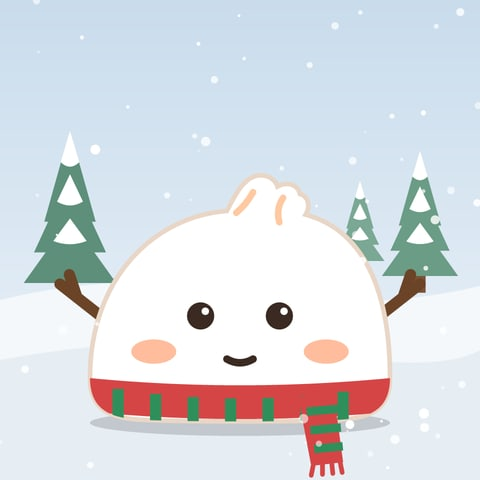
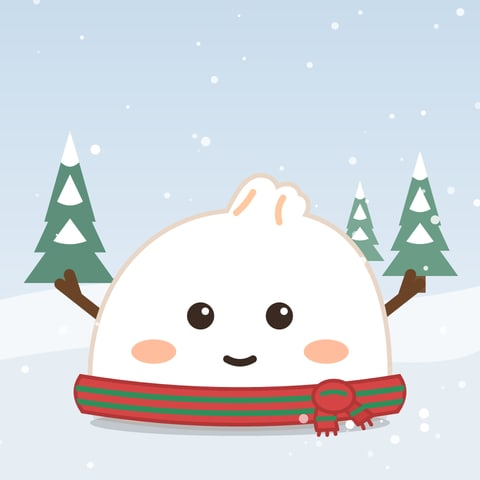
옷장 방울 니트 대신 목도리, 목도리는 따로 그려 몸에 감기
- 옷장: 빨간·주황 방울 니트 빼고 목도리(63장). 얼굴 아래에 깔아 입이 위로 보이게
- 목도리는 몸에 칠한 띠가 아니라 테두리·두께가 있는 따로 된 목도리, 양끝이 몸 밖으로
  나오고 초록 줄은 띠 곡선을 따라간다. 매듭과 꼬리 두 개 (앱 그림 높이 안에 들어오게)
- 초상화: 진주 귀걸이를 오른쪽으로, 더 크게, 고리 없이
- 코코몬: 병아리 날개 빼기

Changed region(s): [[0.1562, 0.7812, 0.8438, 1.0]]

diff --git a/design/tools/make_samples.js b/design/tools/make_samples.js
@@ -59,7 +59,7 @@ function coco(x, y, w, { tone = 'white', mood = 'idle', flip = false, rot = 0, o
   </g>`;
 }
 
-/** 방울 니트 (over 에 넣는다). 앱 옷장의 빨간·주황 방울 니트(Outfits.tsx 의 Beanie)와 같은 모양 */
+/** 방울 니트 (over 에 넣는다). 머리를 덮어 꼭지를 가린다 */
 function beanie(color, band, pom) {
   const ribs = [86, 114, 142, 171, 200, 229, 258, 286, 314].map((x) => `<path d="M${x},${(160 - 100 * Math.sqrt(1 - ((x - 200) / 150) ** 2)).toFixed(1)} L${x},138" stroke="#000" stroke-width="5" stroke-linecap="round" opacity="0.1"/>`).join('');
   const bandRibs = [64, 92, 120, 148, 176, 204, 232, 260, 288, 316, 340].map((x) => `<path d="M${x},${(136 - Math.sin(((x - 44) / 312) * Math.PI) * 10).toFixed(1)} l0,26" stroke="#000" stroke-width="4" stroke-linecap="round" opacity="0.12"/>`).join('');
@@ -67,6 +67,21 @@ function beanie(color, band, pom) {
     <path d="M44,140 C120,118 280,118 356,140 L358,178 C280,156 120,156 42,178 Z" fill="${band}"/>${bandRibs}
     <circle cx="200" cy="46" r="30" fill="${pom}"/><circle cx="182" cy="36" r="13" fill="${pom}"/><circle cx="220" cy="34" r="13" fill="${pom}"/>`;
 }
+
+/** 빨간 목도리 (over 에 넣는다). 몸에 칠한 띠가 아니라 두께·테두리가 있는 따로 된 목도리를 몸에 감아 붙인다.
+ *  양끝은 몸 밖으로 살짝 나오고, 오른쪽 앞 매듭에서 꼬리 두 개가 늘어진다. 앱 옷장의 목도리(Outfits.tsx 의 Scarf)와 같은 모양 */
+const SCARF_BAND = 'M30,254 Q200,282 370,254 Q382,272 368,292 Q200,320 32,292 Q18,272 30,254 Z';
+const SCARF = `<clipPath id="scarf-band"><path d="${SCARF_BAND}"/></clipPath>
+  <path d="M40,286 Q200,316 360,286 L356,300 Q200,326 44,300 Z" fill="rgba(120,40,0,0.12)"/>
+  <path d="${SCARF_BAND}" fill="#d64545" stroke="#b33636" stroke-width="4"/>
+  <g clip-path="url(#scarf-band)" stroke="#2f8f5b" stroke-width="6" fill="none"><path d="M20,266 Q200,294 380,266"/><path d="M20,280 Q200,308 380,280"/></g>
+  <path d="M284,282 Q278,298 282,312 L304,311 Q300,297 302,284 Z" fill="#d64545" stroke="#b33636" stroke-width="4" stroke-linejoin="round"/>
+  <path d="M304,280 Q316,294 326,306 L342,296 Q328,286 316,276 Z" fill="#c93d3d" stroke="#b33636" stroke-width="4" stroke-linejoin="round"/>
+  <path d="M281,300 L303,299" stroke="#2f8f5b" stroke-width="5"/>
+  <path d="M318,296 L334,286" stroke="#2f8f5b" stroke-width="5"/>
+  <path d="M285,312 l-1,5 M293,312 l0,5 M301,311 l1,5 M330,305 l2,5 M337,301 l3,5" stroke="#b33636" stroke-width="4" stroke-linecap="round"/>
+  <ellipse cx="300" cy="276" rx="22" ry="17" fill="#d64545" stroke="#b33636" stroke-width="4"/>
+  <path d="M286,274 Q300,268 314,274" stroke="#2f8f5b" stroke-width="5" fill="none"/>`;
 
 /** 짧고 동그란 흰 손·발 (코코와 같은 흰색 + 테두리) */
 const nub = (cx, cy, rx, ry, rot = 0) =>
@@ -156,12 +171,7 @@ const SCENES = {
     ${pine(70, 300, 170, '#5d8f7a', true)}${pine(420, 290, 140, '#6a9c86', true)}${pine(360, 270, 90, '#7aa894', true)}
     <path d="M0,300 Q120,270 240,292 T480,286 L480,480 L0,480 Z" fill="#f4f8fb"/>
     <path d="M0,360 Q160,330 300,352 T480,350 L480,480 L0,480 Z" fill="#e6eef4"/>
-    ${coco(240, 420, 300, { mood: 'calm', over: inside(`
-      <path d="M0,252 Q200,276 400,252 L400,288 Q200,312 0,288 Z" fill="#d64545"/>
-      ${[70, 110, 150, 190, 230, 270, 310].map((x) => `<path d="M${x},${254 + 24 * (1 - ((x - 200) / 200) ** 2)} l0,34" stroke="#2f8f5b" stroke-width="12"/>`).join('')}`) + `
-      <path d="M262,276 L300,272 L310,346 L276,350 Z" fill="#d64545"/>
-      ${[292, 312, 332].map((y) => `<path d="M${268 + (y - 276) * 0.2},${y} L${304 + (y - 276) * 0.1},${y - 3}" stroke="#2f8f5b" stroke-width="9"/>`).join('')}
-      <path d="M278,350 l-2,10 M288,349 l0,10 M298,348 l1,10 M307,347 l2,10" stroke="#d64545" stroke-width="5" stroke-linecap="round"/>`,
+    ${coco(240, 420, 300, { mood: 'calm', over: SCARF,
       under: `<path d="M64,200 L8,156 M26,170 L18,146 M336,200 L392,156 M374,170 L382,146" stroke="#6b4428" stroke-width="12" stroke-linecap="round"/>` })}
     ${snow(70, 480, 480, 7)}
   `, lin('sky', [[0, '#c9dcec'], [1, '#eef4fa']]))],
@@ -184,7 +194,6 @@ const SCENES = {
       <ellipse cx="0" cy="-26" rx="42" ry="38" fill="#ffe066"/>
       <circle cx="-14" cy="-36" r="5" fill="${EYE}"/><circle cx="14" cy="-36" r="5" fill="${EYE}"/>
       <path d="M-8,-24 L8,-24 L0,-14 Z" fill="#f59f3a"/>
-      <path d="M-40,-30 Q-58,-26 -50,-10" stroke="#f7d14a" stroke-width="12" stroke-linecap="round" fill="none"/>
       <path d="M-6,-64 Q0,-78 8,-64" stroke="#ffe066" stroke-width="6" fill="none" stroke-linecap="round"/>
       <path d="M-14,10 L-14,2 M14,10 L14,2" stroke="#f59f3a" stroke-width="5" stroke-linecap="round"/>
     </g>
@@ -284,8 +293,7 @@ const SCENES = {
     ${coco(240, 400, 310, { mood: 'calm', over: inside(`
       <path d="M0,276 Q200,256 400,276 L400,320 L0,320 Z" fill="#6b2d3f"/>
       <path d="M170,268 Q200,292 230,268 L222,320 L178,320 Z" fill="#f4ecd8"/>`) + `
-      <path d="M58,184 Q46,190 46,204" stroke="#d8b55a" stroke-width="5" stroke-linecap="round" fill="none"/>
-      <circle cx="44" cy="224" r="19" fill="url(#pearl)"/><circle cx="38" cy="216" r="5.5" fill="#fff"/>` })}
+      <circle cx="356" cy="226" r="27" fill="url(#pearl)"/><circle cx="348" cy="215" r="7.5" fill="#fff"/>` })}
     <g opacity="0.75">${(() => { const R = rnd(17); let s = ''; for (let i = 0; i < 260; i++) s += `<rect x="${(40 + R() * 392).toFixed(0)}" y="${(40 + R() * 392).toFixed(0)}" width="8" height="3" fill="${R() > 0.5 ? '#000' : '#fff'}" opacity="0.06" transform="rotate(${(R() * 180).toFixed(0)} 240 240)"/>`; return s; })()}</g>
     <path d="M60,420 Q120,380 160,420 L130,440 Z" fill="#e85d3a" opacity="0.85"/><path d="M360,400 Q400,360 430,420 L420,440 L360,440 Z" fill="#f2a33a" opacity="0.8"/>
   `, rad('bg', [[0, '#5b6b46'], [1, '#1d2617']], 0.45, 0.35, 0.8) + rad('pearl', [[0, '#ffffff'], [0.6, '#eef0f2'], [1, '#b9bec6']], 0.4, 0.35, 0.6))],

diff --git a/app/src/components/Outfits.tsx b/app/src/components/Outfits.tsx
@@ -1,7 +1,7 @@
 // 코코 옷(머리 장식). 코코 그림과 같은 viewBox(400×320) 좌표로 그려서 CocoArt 위에 겹친다
-import { Circle, Ellipse, G, Path, Rect } from 'react-native-svg';
+import { Circle, ClipPath, Defs, Ellipse, G, Path, Rect } from 'react-native-svg';
 
-export type OutfitId = 'ribbon' | 'heart' | 'cat' | 'dog' | 'straw' | 'beret' | 'crown' | 'party' | 'headphones' | 'earflap' | 'trapper' | 'glasses' | 'snowcap' | 'pompom';
+export type OutfitId = 'ribbon' | 'heart' | 'cat' | 'dog' | 'straw' | 'beret' | 'crown' | 'party' | 'headphones' | 'earflap' | 'trapper' | 'glasses' | 'scarf';
 
 // 모자 그림의 기준점(from)을 코코 머리 위 자리(to)에 맞추고, k배 키우고 r도 기울인다. top = 얹었을 때 가장 위쪽 y
 const FIT: Record<OutfitId, { from: [number, number]; to: [number, number]; k: number; r?: number; top: number }> = {
@@ -17,10 +17,10 @@ const FIT: Record<OutfitId, { from: [number, number]; to: [number, number]; k: n
   earflap: { from: [0, 0], to: [0, 0], k: 1, top: 14 },
   trapper: { from: [0, 0], to: [0, 0], k: 1, top: 62 },
   glasses: { from: [0, 0], to: [0, 0], k: 1, top: 160 },
-  snowcap: { from: [0, 0], to: [0, 0], k: 1, top: 20 },
-  pompom: { from: [0, 0], to: [0, 0], k: 1, top: 20 },
+  scarf: { from: [0, 0], to: [0, 0], k: 1, top: 258 },
 };
 
+const SCARF_BAND = 'M30,254 Q200,282 370,254 Q382,272 368,292 Q200,320 32,292 Q18,272 30,254 Z';
 const HEART = '#fff'; // 하트 꼬랑지 (코코와 같은 흰색)
 const LINE = '#3a2a22'; // 고양이 귀·수염 (코코 눈과 같은 색)
 const EAR = '#2e2a2f'; // 강아지 귀 (흰 코코와 대비되는 검정)
@@ -39,9 +39,11 @@ export const COVERS_KNOB: Record<OutfitId, boolean> = {
   earflap: true,
   trapper: true,
   glasses: false, // 눈에 걸치는 거라 머리 꼭지는 그대로 보인다
-  snowcap: true,
-  pompom: true,
+  scarf: false, // 몸 아래쪽에 두르는 거라 꼭지는 그대로
 };
+
+/** 얼굴(눈·입)보다 먼저 그리는 옷: 몸에 두르는 거라 입이 그 위로 보여야 한다 */
+export const UNDER_FACE: Partial<Record<OutfitId, boolean>> = { scarf: true };
 
 /** 옷의 가장 위쪽 y (메인에서 대사를 코코에 붙일 때 모자에 겹치지 않도록) */
 export const OUTFIT_TOP = Object.fromEntries((Object.keys(FIT) as OutfitId[]).map((id) => [id, FIT[id].top])) as Record<OutfitId, number>;
@@ -200,12 +202,27 @@ function Hat({ id }: { id: OutfitId }) {
           <Circle cx={212} cy={54} r={14} fill="#e9dfd0" />
         </G>
       );
-    case 'snowcap':
-      // 빨간 방울 니트 (초록 접단 + 흰 방울)
-      return <Beanie color="#d64545" band="#2f8f5b" pom="#ffffff" />;
-    case 'pompom':
-      // 주황 방울 니트 (진한 주황 접단 + 흰 방울)
-      return <Beanie color="#ff8a3d" band="#e8692a" pom="#ffffff" />;
+    case 'scarf':
+      // 빨간 목도리: 몸에 칠한 띠가 아니라 두께·테두리가 있는 따로 된 목도리를 몸에 감아 붙인다.
+      // 양끝은 몸 밖으로 살짝 나오고, 오른쪽 앞 매듭에서 꼬리 두 개 (design/tools/make_samples.js 의 SCARF 와 같은 모양)
+      return (
+        <G>
+          <Defs>
+            <ClipPath id="scarf-band"><Path d={SCARF_BAND} /></ClipPath>
+          </Defs>
+          <Path d="M40,286 Q200,316 360,286 L356,300 Q200,326 44,300 Z" fill="rgba(120,40,0,0.12)" />
+          <Path d={SCARF_BAND} fill="#d64545" stroke="#b33636" strokeWidth={4} />
+          <G clipPath="url(#scarf-band)">
+            <Path d="M20,266 Q200,294 380,266 M20,280 Q200,308 380,280" stroke="#2f8f5b" strokeWidth={6} fill="none" />
+          </G>
+          <Path d="M284,282 Q278,298 282,312 L304,311 Q300,297 302,284 Z" fill="#d64545" stroke="#b33636" strokeWidth={4} strokeLinejoin="round" />
+          <Path d="M304,280 Q316,294 326,306 L342,296 Q328,286 316,276 Z" fill="#c93d3d" stroke="#b33636" strokeWidth={4} strokeLinejoin="round" />
+          <Path d="M281,300 L303,299 M318,296 L334,286" stroke="#2f8f5b" strokeWidth={5} />
+          <Path d="M285,312 l-1,5 M293,312 l0,5 M301,311 l1,5 M330,305 l2,5 M337,301 l3,5" stroke="#b33636" strokeWidth={4} strokeLinecap="round" />
+          <Ellipse cx={300} cy={276} rx={22} ry={17} fill="#d64545" stroke="#b33636" strokeWidth={4} />
+          <Path d="M286,274 Q300,268 314,274" stroke="#2f8f5b" strokeWidth={5} fill="none" />
+        </G>
+      );
     case 'trapper':
       // 털 달린 방한모 (가죽 + 앞 털 말림 + 귀 덮개)
       return (
@@ -224,21 +241,3 @@ function Hat({ id }: { id: OutfitId }) {
   }
 }
 
-/** 머리를 덮는 방울 니트: 둥근 몸판 + 세로 골 + 접어 올린 단 + 방울 */
-function Beanie({ color, band, pom }: { color: string; band: string; pom: string }) {
-  return (
-    <G>
-      <Path d="M54,150 C54,22 346,22 346,150 Z" fill={color} />
-      {[86, 114, 142, 171, 200, 229, 258, 286, 314].map((x) => (
-        <Path key={x} d={`M${x},${160 - 100 * Math.sqrt(1 - ((x - 200) / 150) ** 2)} L${x},138`} stroke="#000" strokeWidth={5} strokeLinecap="round" opacity={0.1} />
-      ))}
-      <Path d="M44,140 C120,118 280,118 356,140 L358,178 C280,156 120,156 42,178 Z" fill={band} />
-      {[64, 92, 120, 148, 176, 204, 232, 260, 288, 316, 340].map((x) => (
-        <Path key={x} d={`M${x},${136 - Math.sin(((x - 44) / 312) * Math.PI) * 10} l0,26`} stroke="#000" strokeWidth={4} strokeLinecap="round" opacity={0.12} />
-      ))}
-      <Circle cx={200} cy={46} r={30} fill={pom} />
-      <Circle cx={182} cy={36} r={13} fill={pom} />
-      <Circle cx={220} cy={34} r={13} fill={pom} />
-    </G>
-  );
-}

diff --git a/app/src/components/Coco.tsx b/app/src/components/Coco.tsx
@@ -5,7 +5,7 @@ import Animated, { useAnimatedStyle, useSharedValue, withSequence, withSpring, w
 import Svg, { ClipPath, Circle, Defs, Ellipse, G, Path } from 'react-native-svg';
 
 import { bump } from '../lib/haptics';
-import { COVERS_KNOB, OutfitArt, OutfitId } from './Outfits';
+import { COVERS_KNOB, OutfitArt, OutfitId, UNDER_FACE } from './Outfits';
 
 export type CocoMood = 'idle' | 'happy' | 'print' | 'wow' | 'squish' | 'blink' | 'gag' | 'spew';
 export type CocoTone = 'orange' | 'white';
@@ -154,9 +154,10 @@ export function CocoArt({
           <Ellipse cx={292} cy={228} rx={mood === 'gag' ? 32 : 24} ry={mood === 'gag' ? 19 : 13} fill={c.blush} opacity={mood === 'gag' ? 1 : 0.85} />
         </>
       )}
+      {outfit && UNDER_FACE[outfit] && <OutfitArt id={outfit} />}
       <Eyes mood={mood} />
       <Mouth mood={mood} tone={tone} clipId={`${id}-mouth`} />
-      {outfit && <OutfitArt id={outfit} />}
+      {outfit && !UNDER_FACE[outfit] && <OutfitArt id={outfit} />}
     </Svg>
   );
 }

diff --git a/app/src/lib/shop.ts b/app/src/lib/shop.ts
@@ -39,11 +39,10 @@ export const OUTFITS: OutfitItem[] = [
   { id: 'glasses', name: '빨간 안경', records: 15 },
   { id: 'beret', name: '베레모', records: 21 },
   { id: 'party', name: '파티 고깔', records: 28 },
-  { id: 'pompom', name: '주황 방울 니트', records: 32 },
   { id: 'headphones', name: '헤드폰', records: 36 },
   { id: 'cat', name: '고양이', records: 45 },
   { id: 'earflap', name: '귀도리 니트', records: 56 },
-  { id: 'snowcap', name: '빨간 방울 니트', records: 63 },
+  { id: 'scarf', name: '목도리', records: 63 },
   { id: 'dog', name: '강아지 귀', records: 70 },
   { id: 'trapper', name: '털 방한모', records: 84 },
   { id: 'crown', name: '왕관', records: 100 },

diff --git a/marketing/App Store/iap-products.md b/marketing/App Store/iap-products.md
@@ -54,7 +54,7 @@ App Store Connect → 앱 내 구입에 손으로 등록할 때 복붙하는 표
 | 15 | `recoco.theme.fourcut-house` | 하우스네컷 | 1,000원 | 길쭉한 집 창틀에 네컷 띠를 끼운다 · 지붕 4가지(줄무늬·격자·땡땡이·굴뚝) · 뒤집으면 그날의 일기 |
 | 16 | `recoco.theme.photo-receipt` | 사진 영수증 | 1,000원 | 사진 위에 흰 글씨로 적는 주문서 · 흑백 프린트로 글 아래에 붙일 수도 |
 
-## 코코 옷 11개 — 나중에 팔 것
+## 코코 옷 10개 — 나중에 팔 것
 
 v1.0 에서는 영수증 장수로 하나씩 열린다(`lib/shop.ts` 의 `OUTFITS`). 팔기로 한 시점에
 아래 ID 를 그대로 쓴다. **리본·하트 꼬랑지·밀짚모자는 원래부터 보상이었으므로 팔지 않는다.**
@@ -64,11 +64,10 @@ v1.0 에서는 영수증 장수로 하나씩 열린다(`lib/shop.ts` 의 `OUTFIT
 | `recoco.outfit.glasses` | 빨간 안경 | 1,000원 | 15장 |
 | `recoco.outfit.beret` | 베레모 | 1,000원 | 21장 |
 | `recoco.outfit.party` | 파티 고깔 | 1,000원 | 28장 |
-| `recoco.outfit.pompom` | 주황 방울 니트 | 1,000원 | 32장 |
 | `recoco.outfit.headphones` | 헤드폰 | 1,000원 | 36장 |
 | `recoco.outfit.cat` | 고양이 | 1,000원 | 45장 |
 | `recoco.outfit.earflap` | 귀도리 니트 | 1,000원 | 56장 |
-| `recoco.outfit.snowcap` | 빨간 방울 니트 | 1,000원 | 63장 |
+| `recoco.outfit.scarf` | 목도리 | 1,000원 | 63장 |
 | `recoco.outfit.dog` | 강아지 귀 | 1,000원 | 70장 |
 | `recoco.outfit.trapper` | 털 방한모 | 1,000원 | 84장 |
 | `recoco.outfit.crown` | 왕관 | 1,000원 | 100장 |

diff --git a/docs/유료화_아이디어.md b/docs/유료화_아이디어.md
@@ -19,7 +19,7 @@
 | 품목 | 가격 | 개수 | 상품 ID |
 |---|---|---|---|
 | 새 카테고리 | 1,500원 | 6 | `recoco.category.gift` / `.food` / `.show` / `.concert` / `.exercise` / `.music` |
-| 코코 옷 | 1,000원 | 11 | `recoco.outfit.beret` / `.crown` / `.party` / `.headphones` / `.earflap` / `.trapper` / `.glasses` / `.cat` / `.dog` / `.snowcap` / `.pompom` |
+| 코코 옷 | 1,000원 | 10 | `recoco.outfit.beret` / `.crown` / `.party` / `.headphones` / `.earflap` / `.trapper` / `.glasses` / `.cat` / `.dog` / `.scarf` |
 | 영수증 종이 테마 | 1,000원 | 1 | `recoco.theme.grid` (모눈종이) |
 | 영수증 모양 테마 | 1,000원 | 6 | `recoco.theme.food-house` / `.photo-ticket` / `.wristband` / `.holo` / `.retro` / `.cocomon` |
 
